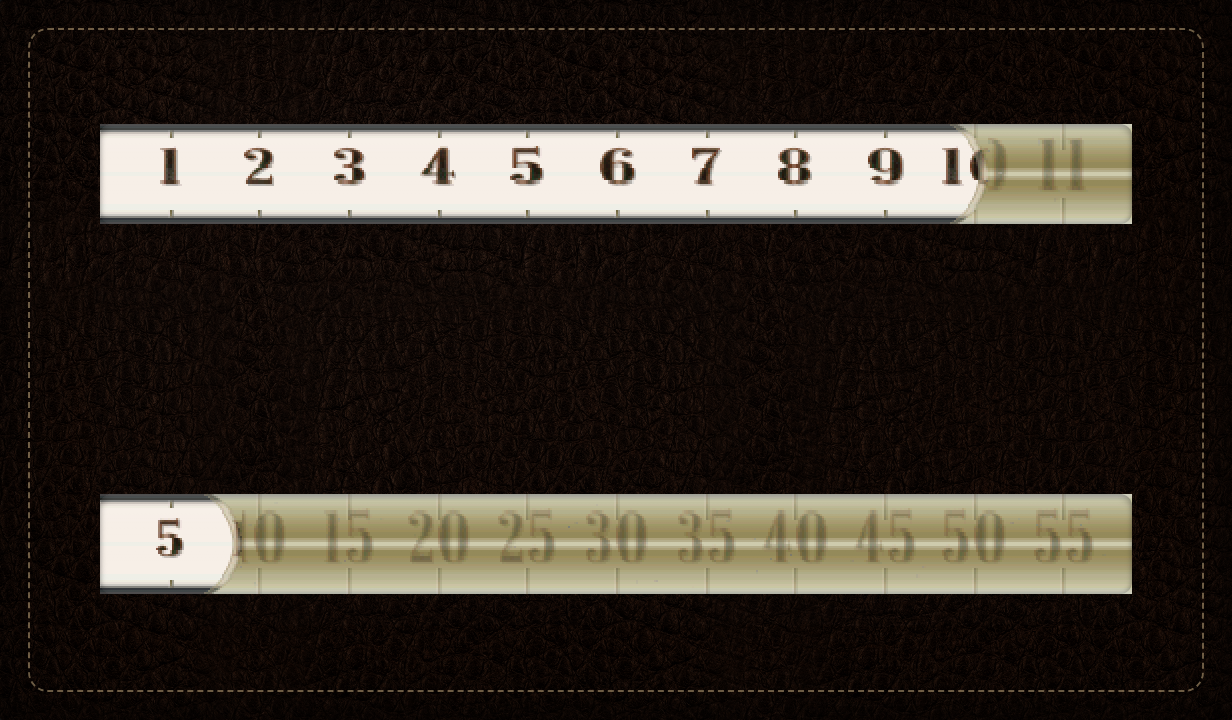
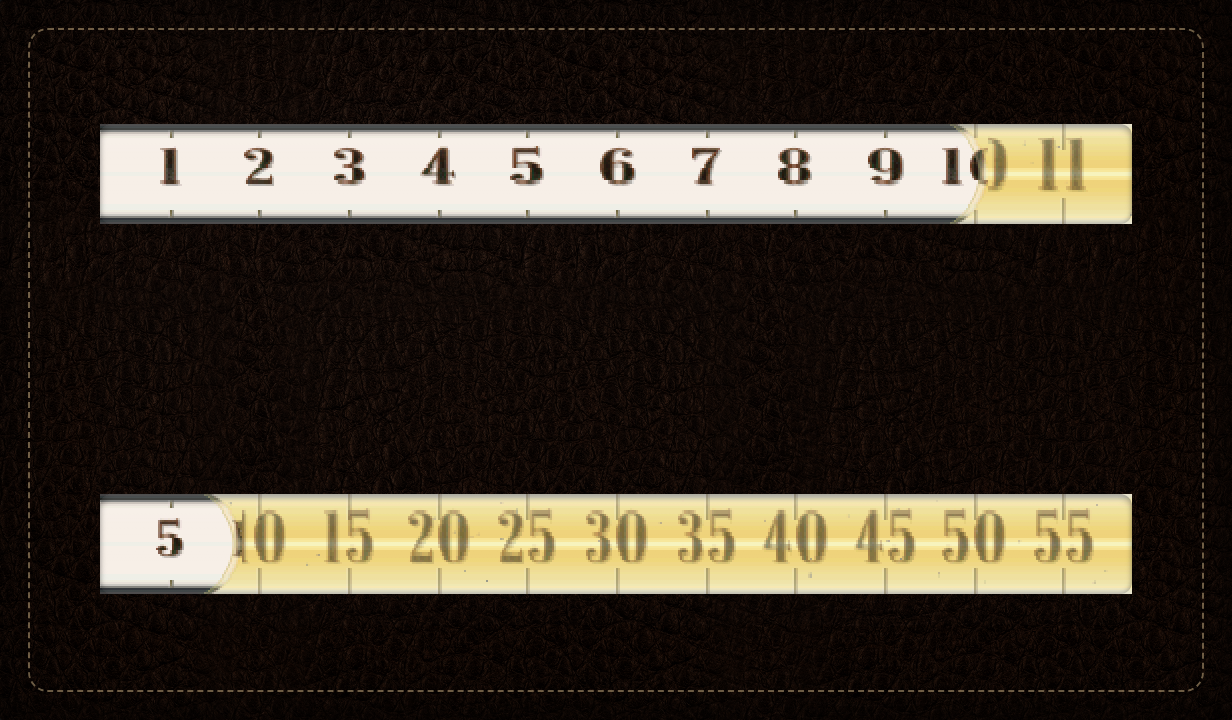
Material derivation: backing anchored to its displayed colour, bubble rim from side light, pre-image settled on the 565 row
Found by recreating three user configs on a white backing: the backing under the liquid was lit by the
physical backing irradiance while the legacy shows the dry backing at its hex, so colourless liquids on
white derived translucent with a grey body (T_max 0.63). The backing term is now lin(back)·[R(d,1) − R(d,0)]
plus the body's own scattered light; bubbleRim comes from the side light and the backing-free body (rings
were invisible on white); the liquid pre-image picks the ±1 level whose RGB565 row lands nearest the target
(olive-oil centre row was one 5-bit step off). Fixtures, doc rows, derived presets and shots refreshed.

Changed region(s): [[0.1542, 0.6722, 0.9253, 0.825], [0.7711, 0.1528, 0.9253, 0.3056]]

diff --git a/sim/src/material/optical.ts b/sim/src/material/optical.ts
@@ -120,11 +120,14 @@ export function illumination(m: Material): Illumination {
     Es: m.exposure * (m.ambient + 0.25 * m.lightIntensity),
   };
 }
-/** Effective ground reflectance of the backing under the liquid: lin(back)·E_b/E_l (0 when E_l = 0).
+/** Effective ground reflectance of the backing under the liquid: lin(back)/E_l (0 when E_l = 0).
  *  Capped at 1 — a reflectance above 1 has no two-flux meaning (and makes the K→0 branch singular);
- *  it happens only for a near-white backing under a low, wide light (E_b/E_l ≤ 1.41). */
+ *  it happens when lin(back) > E_l (a light backing under dim light), where E_l·Rg falls short of lin(back). */
 export function groundReflectance(back8: readonly number[], L: Illumination): RGB3 {
-  return map3((i) => L.El > 0 ? Math.min(1, lin255(back8[i]) * L.Eb / L.El) : 0);
+  // The legacy compositor shows the dry backing at its hex brightness, so the displayed colour is the ground truth:
+  // the backing's radiance under the liquid is lin(back) (E_l·Rg = lin(back)), not E_b·albedo — otherwise a white
+  // backing derived darker on the wet side than the dry side shows it (T_max capped colourless liquids at 0.63).
+  return map3((i) => L.El > 0 ? Math.min(1, lin255(back8[i]) / L.El) : 0);
 }
 
 const K3 = (m: Material): RGB3 => [m.absorptionR, m.absorptionG, m.absorptionB];
@@ -132,10 +135,14 @@ const K3 = (m: Material): RGB3 => [m.absorptionR, m.absorptionG, m.absorptionB];
 /** C_i(u) = E_l·[R_i(d, Rg_i) + F_far·Tr_i(d)²] + E_s·u⁴·Tr_i(d), linear light. A black `back8` gives the
  *  backing-independent body C⁰ (the clear class's body: the legacy mix adds the backing itself). */
 export function bodyRadiance(m: Material, s: RowSample, back8: readonly number[], L: Illumination): RGB3 {
-  const K = K3(m), Rg = groundReflectance(back8, L), u4 = s.u ** 4;
+  // The backing term is scaled by the DISPLAYED backing colour (the legacy shows the dry backing at its hex, so the
+  // wet side must agree with it): lin(back)·[R(d, 1) − R(d, 0)] — the two-flux response to a white ground, times the
+  // ground's own radiance — plus E_l·R(d, 0), the body's own scattered light. No reflectance cap is needed.
+  const K = K3(m), u4 = s.u ** 4;
   return map3((i) => {
-    const R = km(K[i], m.scattering, s.d, Rg[i]).R, Tr = km(K[i], m.scattering, s.d, 0).Tr;
-    return L.El * (R + s.Ffar * Tr * Tr) + L.Es * u4 * Tr;
+    const k0 = km(K[i], m.scattering, s.d, 0), k1 = km(K[i], m.scattering, s.d, 1), Tr = k0.Tr;
+    const R = L.El * k0.R + lin255(back8[i]) * (k1.R - k0.R);
+    return R + L.El * s.Ffar * Tr * Tr + L.Es * u4 * Tr;
   });
 }
 
@@ -354,7 +361,8 @@ export function colourLaws(c: ColourInput): ColourOutput {
       highlightH, highlightBright, highlightSharp: 2,
       glassHi: '#dfe6ea', glassHiBright: 0.55 * Lhi, glassReflect: 0.25 * Lhi, glassRim: 0.45 + 0.35 * Lhi,
       glassBody: 0.4 * m.ambient, glassWallGlow, glassOverLiquid,
-      bubbleRim: rgbHex(map3((i) => enc255(0.35 * C0[i] + 0.65))), bubbleDark: 0.25 + 0.5 * (1 - Tsnap),
+      // a bubble's rim refracts the side light, not the backing behind it: dark on a light backing, light on a dark one
+      bubbleRim: rgbHex(map3((i) => enc255(Math.min(1, L.Es + 0.35 * Cfree[i])))), bubbleDark: 0.25 + 0.5 * (1 - Tsnap),
       // side-lit rim of a dielectric liquid; its tint is solved on the real palette (derive.ts)
       rimLight: c.metal || c.plasma ? 0 : 1,
     },

diff --git a/sim/tools/check-materials.ts b/sim/tools/check-materials.ts
@@ -460,13 +460,13 @@ const FIXTURES: Fixture[] = [
     ] },
   { name: 'oil on parchment', m: mat({ viscosity: 84, density: 915, surfaceTension: 32, ior: 1.47, absorptionR: 0.05, absorptionG: 0.07, absorptionB: 0.45, contactAngle: 15, contactHysteresis: 8, solidsFraction: 0.3, dryingTime: 2 }),
     d: fdesign('#f1e6cf'), want: [
-      ['viscosity', 'medium', 'x'], ['opacity', 'opaque', 'x'], ['Tlum', '0.47', 'T'], ['Tmax', '0.063', 'T'], ['T', '0.063', 'T'],
-      ['liquid', [116, 101, 0], 'c'], ['liquidLo', [39, 32, 0], 'c'], ['liquidHi', [220, 210, 163], 'c'], ['residual', '0', 'c'],
+      ['viscosity', 'medium', 'x'], ['opacity', 'opaque', 'x'], ['Tlum', '0.47', 'T'], ['Tmax', '0.133', 'T'], ['T', '0.133', 'T'],
+      ['liquid', [195, 169, 3], 'c'], ['liquidLo', [67, 55, 0], 'c'], ['liquidHi', [255, 246, 163], 'c'], ['residual', '0', 'c'],
     ] },
   { name: 'pinot on parchment', m: mat({ viscosity: 1.5, density: 990, surfaceTension: 46, ior: 1.35, absorptionR: 0.15, absorptionG: 0.65, absorptionB: 0.5, contactAngle: 20, contactHysteresis: 10, solidsFraction: 0.03 }),
     d: fdesign('#f1e6cf'), want: [
-      ['viscosity', 'watery', 'x'], ['opacity', 'opaque', 'x'], ['Tlum', '0.07', 'T'], ['Tmax', '0.012', 'T'], ['T', '0.012', 'T'],
-      ['liquid', [79, 0, 6], 'c'], ['liquidLo', [29, 0, 0], 'c'], ['liquidHi', [231, 166, 172], 'c'], ['residual', '0', 'c'],
+      ['viscosity', 'watery', 'x'], ['opacity', 'opaque', 'x'], ['Tlum', '0.07', 'T'], ['Tmax', '0.030', 'T'], ['T', '0.030', 'T'],
+      ['liquid', [129, 0, 14], 'c'], ['liquidLo', [49, 0, 0], 'c'], ['liquidHi', [253, 164, 169], 'c'], ['residual', '0', 'c'],
     ] },
   // sampled input #152 (seed 20260925): a strongly blue-absorbing liquid whose luma transmittance reads clear;
   // clear is colourless only, so the two-pass channel spread caps it at the translucent edge
@@ -719,6 +719,16 @@ for (const e of [0.02, 0.021]) {
   if (r) report(`boundary gradient backing: centre residual ${r.residual.toFixed(2)} ≤ 5 levels (T ${r.coords.T.toFixed(3)} via T_max)`, r.residual <= 5 ? [] : [`residual ${r.residual.toFixed(2)}`], []);
   const u = boundary('light uniform backing (parchment) behind oil', OIL.m, fdesign('#f1e6cf'));
   if (u) report(`boundary parchment: centre residual ${u.residual.toFixed(2)} ≤ 5 levels (T ${u.coords.T.toFixed(3)} via T_max)`, u.residual <= 5 ? [] : [`residual ${u.residual.toFixed(2)}`], []);
+}
+// bubbleRim is the side light, not the backing: a bubble reads darker than a white backing and brighter than a
+// black one (frizzante; the white design's on-top tick colours are a design rejection, not the colour's concern)
+{
+  const FR = MATERIAL_PRESETS.find((e) => e.id === 'frizzante')!;
+  for (const [back, below] of [['#ffffff', true], ['#000000', false]] as const) {
+    const rim = deriveReport(FR.material, { ...FR.design, tubeBack: back, tubeBack2: back }).params.bubbleRim;
+    const lr = luma(rim), lb = luma(back);
+    report(`bubbleRim frizzante on ${back}: luma ${lr.toFixed(1)} ${below ? '<' : '>'} backing ${lb.toFixed(1)} (${rim})`, (below ? lr < lb : lr > lb) ? [] : [`luma ${lr.toFixed(1)}`], []);
+  }
 }
 {
   const MILK = FIXTURES[6];

diff --git a/sim/src/material/derive.ts b/sim/src/material/derive.ts
@@ -337,6 +337,8 @@ export function deriveReport(material: Material, design: Design): DeriveReport {
   };
   const designPart: Pick<Params, DesignKey> = { ...d, freeLiquid: plasma ? false : d.freeLiquid };
   const params = { ...designPart, ...derived, ...fixed } as Params;
+  // a pre-image body (opaque / translucent / metal) settled on the real palette's centre row, before the rim is fitted over it
+  if (!plasma && opacity !== 'clear') params.liquid = settleLiquid(params, q565([0, 1, 2].map((i) => enc255(colour.C0[i] + E[i]))));
   let rim = { gain: 0, error: 0, rimError: 0, bodyOver: 0 };
   if (params.rimLight > 0) {
     const { tint, ...fit } = fitRim(params, displayOffset(U_WALL, m), colour.Wall, E);
@@ -374,6 +376,21 @@ export const RIM_TOLERANCE = 5;
 /** Bounded allowance for a channel ABOVE the target with the rim at 0: one RGB565 5-bit step (the luma-only
  *  shadeDepth fit magnified by the quantisation, glow's blue); more is an unrepresentable body, rejection 12. */
 export const BODY_OVER_TOLERANCE = 8;
+/** The centre row settled on the real palette: the pre-image is rounded to 8 bits and the row then truncated
+ *  to RGB565, so a sub-level rounding loss can cross a 5-bit step (8 levels) the target does not. Per channel,
+ *  of the rounded pre-image and its ±1 neighbours (±1 always outweighs a rounding loss of ≤ ½·(1 − T)), the
+ *  value whose body-only centre row (rimLight 0; RGB565) is nearest the target is taken; ties keep the rounded one. */
+function settleLiquid(p: Params, target: RGB3): string {
+  const q = { ...p, ...BODY_ONLY, rimLight: 0 }, base = hexRgb(p.liquid);
+  const y = Math.floor((buildPalette(q, 0).rows.length - 1) / 2);
+  const best = [...base], err = [Infinity, Infinity, Infinity];
+  for (const k of [0, -1, 1]) {
+    const c = base.map((v) => clamp(v + k, 0, 255));
+    const got = rgb565to888(buildPalette({ ...q, liquid: rgbHex(c) }, 0).rows[y]);
+    for (let i = 0; i < 3; i++) if (Math.abs(got[i] - target[i]) < err[i]) { err[i] = Math.abs(got[i] - target[i]); best[i] = c[i]; }
+  }
+  return rgbHex(best);
+}
 /** rimLight gains tried in order: the smallest at which no channel of the solved tint saturates wins. */
 const RIM_GAINS = [1, 2, 3, 4] as const;
 /** The side-light rim fit on the real palette: for each gain of RIM_GAINS the tint is solved (solveRimTint);

diff --git a/docs/physical-renderer.md b/docs/physical-renderer.md
@@ -132,8 +132,8 @@ A gradient-backed fixture checks the centre-row residual.
 
 Body radiance per channel at a sample of chord `d` and bore position `u`, from the light that
 entered through the front wall along the **traced path**:
-`C_i(u) = E_l · [ R_i(d, Rg_i) + F_far(u) · Tr_i(d)² ] + C_side,i(u)`,
-`Rg_i = lin(back_i(t)) · E_b / E_l` (0 when `E_l` = 0). The first term is the backing seen through the
+`C_i(u) = E_l·R_i(d, 0) + lin(back_i(t))·[R_i(d, 1) − R_i(d, 0)] + E_l·F_far(u)·Tr_i(d)² + C_side,i(u)`,
+The backing term is the two-flux response to a white ground, `R(d, 1) − R(d, 0)`, scaled by the DISPLAYED backing colour `lin(back)`: the legacy compositor shows the dry backing at its hex brightness, so that colour is the ground truth for the wet side too (lighting the backing by `E_b·albedo` made a white backing derive darker under a colourless liquid than beside it, and a reflectance `Rg = lin(back)/E_l` capped at 1 still lost 30 % on white). `E_b` (`backingLight`) is not used by the colour model. The first term is the backing seen through the
 liquid. The second is the light the far interfaces return: `F_far = 1 − (1 − F₃)(1 − F₄)` with `F₃`,
 `F₄` the Fresnel reflectances at the traced ray's actual incidence on the far liquid→wall and
 wall→air interfaces (`traceRow` exposes them; a face-on ray never reaches total internal reflection
@@ -148,7 +148,7 @@ after the palette inversion (below).
 | Legacy key | Law |
 |---|---|
 | `liquidTransparency` | Front-lit marks and backing are illuminated *through* the liquid and seen *through* it, so the legacy "how much shows through" is a **two-pass** quantity: `T_lum = luma(F_t · Tr_i(d_c)²)` (`F_t` covers the four interfaces once: two in, two out). The palette mixes the raw backing by one scalar, so it cannot show a colour-filtered backing; the largest transparency at which every channel of the composite stays attainable is `T_max = min_i t_i / back_i(0.5)`, `t_i = enc255(C_i(0) + E_i)` the `liquid` row's pre-image target (emission included), over channels with `back_i ≥ 8` levels (∞ on a dark backing). The pre-image also has an upper feasibility bound (no channel may need more than 255 levels): `T_up = min_i (255 − t_i) / (255 − back_i(0.5))` (so a bright emitter over a dark backing is held near opaque: the mix cannot show `C + E` through a transparency; glow 0.35 → 0.04) over channels with `back_i < 255`. `T = min(T_lum, T_max, T_up)`, then band-snapped as above (down when a bound binds). If the composite residual of the snapped result still exceeds 5 levels (opaque/translucent, non-plasma) the material is rejected (10) rather than shown wrong. A tinted liquid on a light backing therefore derives to a low transparency with the full colour in the body — the pattern the 2026-09-23 presets (pinot, cuvée) used by hand — and the composite residual stays ≤ 5 levels by construction. Metallic: 0. Plasma: 0.5 fixed. |
-| `liquid` | Encoded-space pre-image of the palette's `mix(liquid, back, T)` (with `liquidBright` 1), 8-bit units: `liquid_i = clamp((enc255(C_i(0)) − T·back_i(0.5)) / (1 − T), 0, 255)` for the opaque and translucent classes; the **clear class takes `enc255(C⁰_i(0))` directly**, where `C⁰` is the backing-independent body `E_l·[R_i(d, 0) + F_far·Tr_i²] + C_side` (the legacy mix adds the backing itself; dividing by `1 − T ≤ 0.3` is ill-conditioned and the mix cannot show a haze brighter than `(1−T)·255` anyway: that attenuation is an accepted, documented residual). The target includes the emission summed in linear light, `enc255(C_i + E_i)` (the legacy mix then shows `C + E` exactly; an emitter that clips is rejection 9); plasma is the exception: `liquid = enc255(E)` with no pre-image, the legacy xenon convention; emissive: the encoded value ÷ 1.3 (the `liquidBright` trim below, applied to `liquid`, `liquidLo` and `liquidHi` alike). The composite residual `\|((1−T)·liquid + T·back) − enc255(C + E)\|` (before the ÷ 1.3 trim) in 8-bit levels is reported per fixture and must be ≤ 5 levels for opaque/translucent fixtures. Metallic: `C = metalReflectance · E_l · 0.6` (grey conductor under diffuse light; the mirror term is the highlight). Plasma: `C = 0`. |
+| `liquid` | Encoded-space pre-image of the palette's `mix(liquid, back, T)` (with `liquidBright` 1), 8-bit units: `liquid_i = clamp((enc255(C_i(0)) − T·back_i(0.5)) / (1 − T), 0, 255)` for the opaque and translucent classes (and metallic, `T` = 0), rounded to 8 bits and then **settled on the real palette**: the palette truncates the composite to RGB565, so a sub-level loss from rounding the pre-image can cross a 5-bit step (8 levels) the target does not (olive oil on #110b03: red 59.46 → 59 put the centre row at 33 against a target of 41); per channel, of the rounded value and its ±1 neighbours (±1 always outweighs a rounding loss of ≤ ½·(1 − T)), the one whose body-only centre row (`rimLight` 0, RGB565) is nearest `q565(enc255(C + E))` is taken, ties keeping the rounded value — before `rimTint` is fitted over it; the **clear class takes `enc255(C⁰_i(0))` directly**, where `C⁰` is the backing-independent body `E_l·[R_i(d, 0) + F_far·Tr_i²] + C_side` (the legacy mix adds the backing itself; dividing by `1 − T ≤ 0.3` is ill-conditioned and the mix cannot show a haze brighter than `(1−T)·255` anyway: that attenuation is an accepted, documented residual). The target includes the emission summed in linear light, `enc255(C_i + E_i)` (the legacy mix then shows `C + E` exactly; an emitter that clips is rejection 9); plasma is the exception: `liquid = enc255(E)` with no pre-image, the legacy xenon convention; emissive: the encoded value ÷ 1.3 (the `liquidBright` trim below, applied to `liquid`, `liquidLo` and `liquidHi` alike). The composite residual `\|((1−T)·liquid + T·back) − enc255(C + E)\|` (before the ÷ 1.3 trim) in 8-bit levels is reported per fixture and must be ≤ 5 levels for opaque/translucent fixtures. Metallic: `C = metalReflectance · E_l · 0.6` (grey conductor under diffuse light; the mirror term is the highlight). Plasma: `C = 0`. |
 | `liquidLo` | Same rule (pre-image, or direct for clear) applied to the shaded body `enc255(C_i(0) · f_lo + E_i)`, `f_lo = max(0.15, ambient / max(10⁻⁶, ambient + lightIntensity))` (emission is not shaded); plasma `enc255(E_i)` directly (= `liquid`, no shading); emissive ÷ 1.3. |
 | `liquidThin` | Fit of the palette's wall desaturation `mix(c, grey(max channel), liquidThin·(1−chord)²)` to the wall sample: `liquidThin = clamp((1 − sat(enc01 C(0.85)) / sat(enc01 C(0))) / (1 − √(1 − d(0.85)²))², 0, 1)`; 0 when `sat(enc01 C(0)) < 0.05`, when a colour is black (guarded normalisation), or metallic. |
 | `shadeDepth` | Fitted to the wall sample: the palette darkens a row by `shadeDepth · (1 − λ(d))` under the world-up light, `λ(d) = cos(asin d)` (Lambert at the row's surface normal; 0.72 at `d` = 0.695), and physically only the *scattered* light is Lambert-shaded (a backlit transmission is not). The wall body without side light is `B_w = E_l · [λ(d)·R_i(d_w, 0) + (R_i(d_w, Rg) − R_i(d_w, 0)) + F_far·Tr²]`; `shadeDepth = clamp((1 − luma(B_w) / luma(B_c)) / (1 − λ(d)), class range)` (opaque 0.5–0.95, translucent 0.4–0.85, clear 0.3–0.55; class minimum when `luma(B_c)` = 0). A scattering opaque body → 0.95; a clear or backlit one → the class minimum. Metallic 0.95, plasma 0.85. |
@@ -158,7 +158,7 @@ after the palette inversion (below).
 | `highlightBright` | Specular radiance `L_hi = min(1, F(θ_i; 1 → wallIor) · lightIntensity · L_SPEC)`, `θ_i = lightElevation/2`, **`L_SPEC = 12`** (a lamp's radiance relative to a white diffuse surface, calibrated so `lightIntensity` 1 gives the legacy base band 0.35–0.55: F(30°) = 0.04 → 0.48). Mix weight that adds it over the body: `clamp(L_hi / max(0.05, 1 − luma(enc01 C(0))), 0, 1)` (normalised luma, 0..1). Metallic: `min(1.3, metalReflectance · lightIntensity · L_SPEC)` (metal is exempt from the ×liquidBright ≤ 1.3 rule). |
 | `glassHi` | Neutral light colour `#dfe6ea`. `glassHiBright = 0.55·L_hi`, `glassReflect = 0.25·L_hi`, `glassRim = 0.45 + 0.35·L_hi` (grazing Fresnel → 1, clipped to the legacy look), `glassBody = 0.4·ambient`. |
 | `glassWallGlow` | The legacy neutral wall band (light piped along the glass): `clamp(0.6 · exposure · (ambient + 0.25·lightIntensity) · luma(Tr_i(d_w)), 0, 1)` (water 0.27, oil 0.20, honey 0.15, ink 0). Metallic / plasma 0. |
-| `rimLight`, `rimTint` (**new legacy Params, v24**, mirrored in `render.cpp` / `gen_params.py` / presets) | The side-lit rim of a tinted liquid on a dark ground: the palette adds `rimLight · u² · rimTint` (8-bit, clamped) to every liquid row after the transparency mix and before the highlight and glass, `u` = row offset from the centre (0..1); `rimLight` is a gain 0..4 (the sum clamps at 255, so a gain above 1 only extends the reach of the term at the sample row, whose `u²` shrinks with a thick wall: `u_w = 0.85·r/(r + wall)`). Zero in every legacy preset (byte-identical rendering, migration default). Derivation: for dielectric liquids with side light the gain is the smallest of 1, 2, 3, 4 at which no channel of the solved tint saturates (0 for metallic and plasma), and `rimTint` is **solved on the real palette**: `derive` builds the body-only `buildPalette` (the params with `rimLight` 0, the specular/glass overlays and `ambientLight` zeroed, `brightness` 1: the rows `check:materials` reads), reads the wall row `P_w` at `y = round(yc·(1 + d))`, and estimates `rimTint_i = clamp((target_w,i − P_w,i) / u_w², 0, 255)` per channel (`u_w` the palette's row coordinate there, ≈ `d`), `target_w` = `enc255(W_i + E_i)` after the RGB565 round trip, where `W = B_w + E_s·u⁴·Tr(d_w)` is the full wall sample with its scattered share Lambert-shaded (the `shadeDepth` row's `B_w` plus the side light; metallic `λ·C`). `P_w` is itself RGB565-quantised (5-bit blue: 8-level steps), so each channel is then settled on the rendered row: the integer tint whose RGB565 channel is nearest the target (the row is monotone in the tint; bisection). The fitted row is then measured on the real palette (both sides after the RGB565 round trip): a residual above 5 levels in a channel the rim answers for (a vessel whose wall leaves the rim term no reach, e.g. olive oil in a 0.5 mm bore with a 1 mm wall: 33 levels at gain 4) is **rejection 12, unattainable rim** — never a silent saturation; a channel already above the target with no rim (tint 0) is the body shading's miss, which an additive rim cannot lower: it is reported (`DeriveReport.rim.bodyOver`, printed by `check:materials`), not rejected (glow: blue one RGB565 step, 8 levels, over). The fit is exact at the sample (0 levels on every fixture, including olive oil with a 1 mm wall); at the silhouette the rim is `1/u_w²` ≈ 2× brighter, as the side light is. Water (#0a0e10) gain 2, (131,131,125) (at gain 1 it clips: (255,255,250)); olive oil with a 1 mm wall gain 2, (149,156,100); olive oil (200,199,112); honey (187,178,61); cola (199,187,140); pinot on parchment (132,76,92); blood (0,0,0), milk (10,10,10): ≈ 0 (no side light through an opaque body). |
+| `rimLight`, `rimTint` (**new legacy Params, v24**, mirrored in `render.cpp` / `gen_params.py` / presets) | The side-lit rim of a tinted liquid on a dark ground: the palette adds `rimLight · u² · rimTint` (8-bit, clamped) to every liquid row after the transparency mix and before the highlight and glass, `u` = row offset from the centre (0..1); `rimLight` is a gain 0..4 (the sum clamps at 255, so a gain above 1 only extends the reach of the term at the sample row, whose `u²` shrinks with a thick wall: `u_w = 0.85·r/(r + wall)`). Zero in every legacy preset (byte-identical rendering, migration default). Derivation: for dielectric liquids with side light the gain is the smallest of 1, 2, 3, 4 at which no channel of the solved tint saturates (0 for metallic and plasma), and `rimTint` is **solved on the real palette**: `derive` builds the body-only `buildPalette` (the params with `rimLight` 0, the specular/glass overlays and `ambientLight` zeroed, `brightness` 1: the rows `check:materials` reads), reads the wall row `P_w` at `y = round(yc·(1 + d))`, and estimates `rimTint_i = clamp((target_w,i − P_w,i) / u_w², 0, 255)` per channel (`u_w` the palette's row coordinate there, ≈ `d`), `target_w` = `enc255(W_i + E_i)` after the RGB565 round trip, where `W = B_w + E_s·u⁴·Tr(d_w)` is the full wall sample with its scattered share Lambert-shaded (the `shadeDepth` row's `B_w` plus the side light; metallic `λ·C`). `P_w` is itself RGB565-quantised (5-bit blue: 8-level steps), so each channel is then settled on the rendered row: the integer tint whose RGB565 channel is nearest the target (the row is monotone in the tint; bisection). The fitted row is then measured on the real palette (both sides after the RGB565 round trip): a residual above 5 levels in a channel the rim answers for (a vessel whose wall leaves the rim term no reach, e.g. olive oil in a 0.5 mm bore with a 1 mm wall: 25 levels at gain 4) is **rejection 12, unattainable rim** — never a silent saturation; a channel already above the target with no rim (tint 0) is the body shading's miss, which an additive rim cannot lower: it is reported (`DeriveReport.rim.bodyOver`, printed by `check:materials`), not rejected (glow: blue one RGB565 step, 8 levels, over). The fit is exact at the sample (0 levels on every fixture, including olive oil with a 1 mm wall); at the silhouette the rim is `1/u_w²` ≈ 2× brighter, as the side light is. Water (#0a0e10) gain 2, (131,131,125) (at gain 1 it clips: (255,255,250)); olive oil with a 1 mm wall gain 2, (147,154,100); olive oil (194,196,111); honey (184,177,61); cola (197,185,140); pinot on parchment (122,71,82); blood (0,0,0), milk (10,10,10): ≈ 0 (no side light through an opaque body). |
 | `glassOverLiquid` | Share of the empty wall's specular that survives over the liquid: an empty tube reflects at the outer and inner wall surfaces, a filled one at the outer and the (index-matched) wall–liquid interface: `ratio = (F(1→wallIor) + F(wallIor→ior)) / (2·F(1→wallIor))` at normal incidence (water 0.54, honey 0.50, mercury 1); relative to the body's own light: `ratio / (1 + 2·E_lum)`; then **clamped to the inferred class**: emissive `≤ 0.4`, clear `≥ 0.5` (rejection 5 removes the overlap). |
 | `glassWall` | Projected wall band: `wallThickness · pxPerMm` (0.5 mm, 54 px tube → 4.8 px). |
 | `lightPhys` / `lightAngle` | Non-emissive: 1 (world-up light from the IMU) / `lightElevation/2`. Emissive: 0 / `lightElevation/2` (self-lit; the checker's binary rule — KAIZEN: a weakly self-lit liquid would want a share). |
@@ -166,7 +166,7 @@ after the palette inversion (below).
 | `liquidBright`, `brightness` | `liquidBright = 1`; emissive: 1.3 with the derived encoded `liquid`/`liquidHi`/`liquidLo` ÷ 1.3 (the palette scales encoded values, so the product is unchanged). `brightness` design. |
 | `markContrast` | Legibility policy: opaque 0; otherwise 24 when any marks are behind the liquid, else 0. |
 | `tickLens`, `bottomLens` | Depth warp of rear marks seen through the liquid cylinder grows with its index: `min(1, 0.45·(ior − 1)/0.333)` (water 0.45, oil 0.63). The dry-side and rod fields are design (rod calibration). |
-| `bubbleRim` | `enc255(0.35·C(0) + 0.65·white)`; `bubbleDark = 0.25 + 0.5·(1 − T)`. |
+| `bubbleRim` | `enc255(min(1, E_s·white + 0.35·C⁰(0)))` with the backing-free body `C⁰`, `E_s = exposure·(ambient + 0.25·lightIntensity)` (the side-light irradiance of the rim term). A bubble's rim refracts light arriving from the side, not the backing behind it: it reads darker than a light backing and brighter than a dark one (the former `0.65·white` made bubbles vanish on white). Frizzante: luma 219 on #ffffff, 181 on #000000; `bubbleDark = 0.25 + 0.5·(1 − T)`. |
 
 ## Edge and glow
 
@@ -261,8 +261,8 @@ exposure 1, 54 px tube (`pxPerMm` 9.64), design backing as listed. Colours are 8
 | milk | μ 2.9, ρ 1030, γ 45, ior 1.35, K 0.001, S 3, θ 30 ± 15 | medium / opaque | liquid (212,212,212), liquidLo (93,93,93), liquidHi white, T 0.00, shadeDepth 0.95 (was 0.9), highlightBright 1 | freeDamp 1.67, bounce 0.11, K 263, damp 14.2, contactDyn 13.8 | wetFilm 15.2, traces off |
 | liquid oxygen | μ 0.19, ρ 1141, γ 13, ior 1.22, K (0.005, 0.002, 0), θ 5 ± 3, gas boiling 0.7 / r_b 0.05 / foam 0 | watery / clear, T 0.88 | liquid (50,51,52) haze taken directly, liquidLo (16,17,17), liquidHi (190,190,190), shadeDepth 0.3 (was 0.35), glassWallGlow 0.27, glassOverLiquid 0.63 | freeDamp 0.57, bounce 0.35, K 400 (clamped), damp 4.9, contactDyn 8.4, capLength 1.05 | wetFilm 10.7, fizz 1 px (clamped) / 55 px/s / 56 |
 | cola | μ 1.2, ρ 1040, γ 60, ior 1.35, K (0.05, 0.15, 0.35), θ 20 ± 10, gas dissolved 0.4 / r_b 0.07, back #070403 | watery / translucent, T 0.32 | liquid (52,29,5), liquidLo (12,4,0), liquidHi (196,184,170), residual ≤ 1 level, liquidThin 1, shadeDepth 0.4, glassWallGlow 0.17 |
-| oil on parchment | olive oil above with back #f1e6cf | medium / opaque, T_lum 0.47 but T_max 0.063 → T 0.063 | liquid (116,101,0), liquidLo (39,32,0), liquidHi (220,210,163), residual 0 (the light backing is carried by the body, not by the mix) |
-| pinot on parchment | μ 1.5, ρ 990, γ 46, ior 1.35, K (0.15, 0.65, 0.5), θ 20 ± 10, solids 0.03, back #f1e6cf | watery / opaque, T_lum 0.07, T_max 0.012 → 0.012 | liquid (79,0,6), liquidLo (29,0,0), liquidHi (231,166,172), residual 0; colour and class only | freeDamp 0.89, bounce 0.18, K 418, damp 8.9, contactDyn 9.3 | wetFilm 11.8, fizz 1.35 px / 38 px/s / 42 |
+| oil on parchment | olive oil above with back #f1e6cf | medium / opaque, T_lum 0.47 but T_max 0.133 → T 0.133 (snap 0.12) | liquid (195,169,3), liquidLo (67,55,0), liquidHi (255,246,163), residual 0 (the light backing is carried by the body, not by the mix) |
+| pinot on parchment | μ 1.5, ρ 990, γ 46, ior 1.35, K (0.15, 0.65, 0.5), θ 20 ± 10, solids 0.03, back #f1e6cf | watery / opaque, T_lum 0.07, T_max 0.030 → 0.030 | liquid (129,0,14), liquidLo (49,0,0), liquidHi (253,164,169), residual 0; colour and class only | freeDamp 0.89, bounce 0.18, K 418, damp 8.9, contactDyn 9.3 | wetFilm 11.8, fizz 1.35 px / 38 px/s / 42 |
 
 Boundary fixtures (finite output, no exception): K = S = 0; K = 0 with S = 3; S = 0 with K = 50; a
 zero-length chord (`u` = 1); ambient 0 with light 0 and emission 0.3 (allowed: self-lit; at 0.5 the body, now summed with its emission in linear light, pre-images to display white and is rejection 9); black

diff --git a/KAIZEN.md b/KAIZEN.md
@@ -381,3 +381,5 @@ _Added 2026-08-21 with Transport 0 (Web Serial)._
 - `e2e.sh --preset` benches the pinned preset but bench.py restores the board's saved params before `compare-device.py`,
   so the logged parity line is always the board's default look, not the preset; keep the preset applied through the parity
   step (or pass it to compare-device.py) so `--preset` runs log their own parity (found on the honey run, 2026-09-25).
+- groundReflectance caps Rg at 1, so for lin(back) > E_l (parchment #f1e6cf at the defaults: 0.88 > 0.70) E_l·Rg falls short of lin(back) and the "displayed colour is ground truth" law silently breaks for light backings; decide whether to let Rg exceed 1 or reject.
+- bubbleRim on a white backing: 0.35·C0 carries the backing through a clear body, so frizzante's ring is luma 219 on #ffffff (faint), not the ≈0.45 grey the E_s term alone suggests; consider C⁰ (backing-free body) instead of C0.
